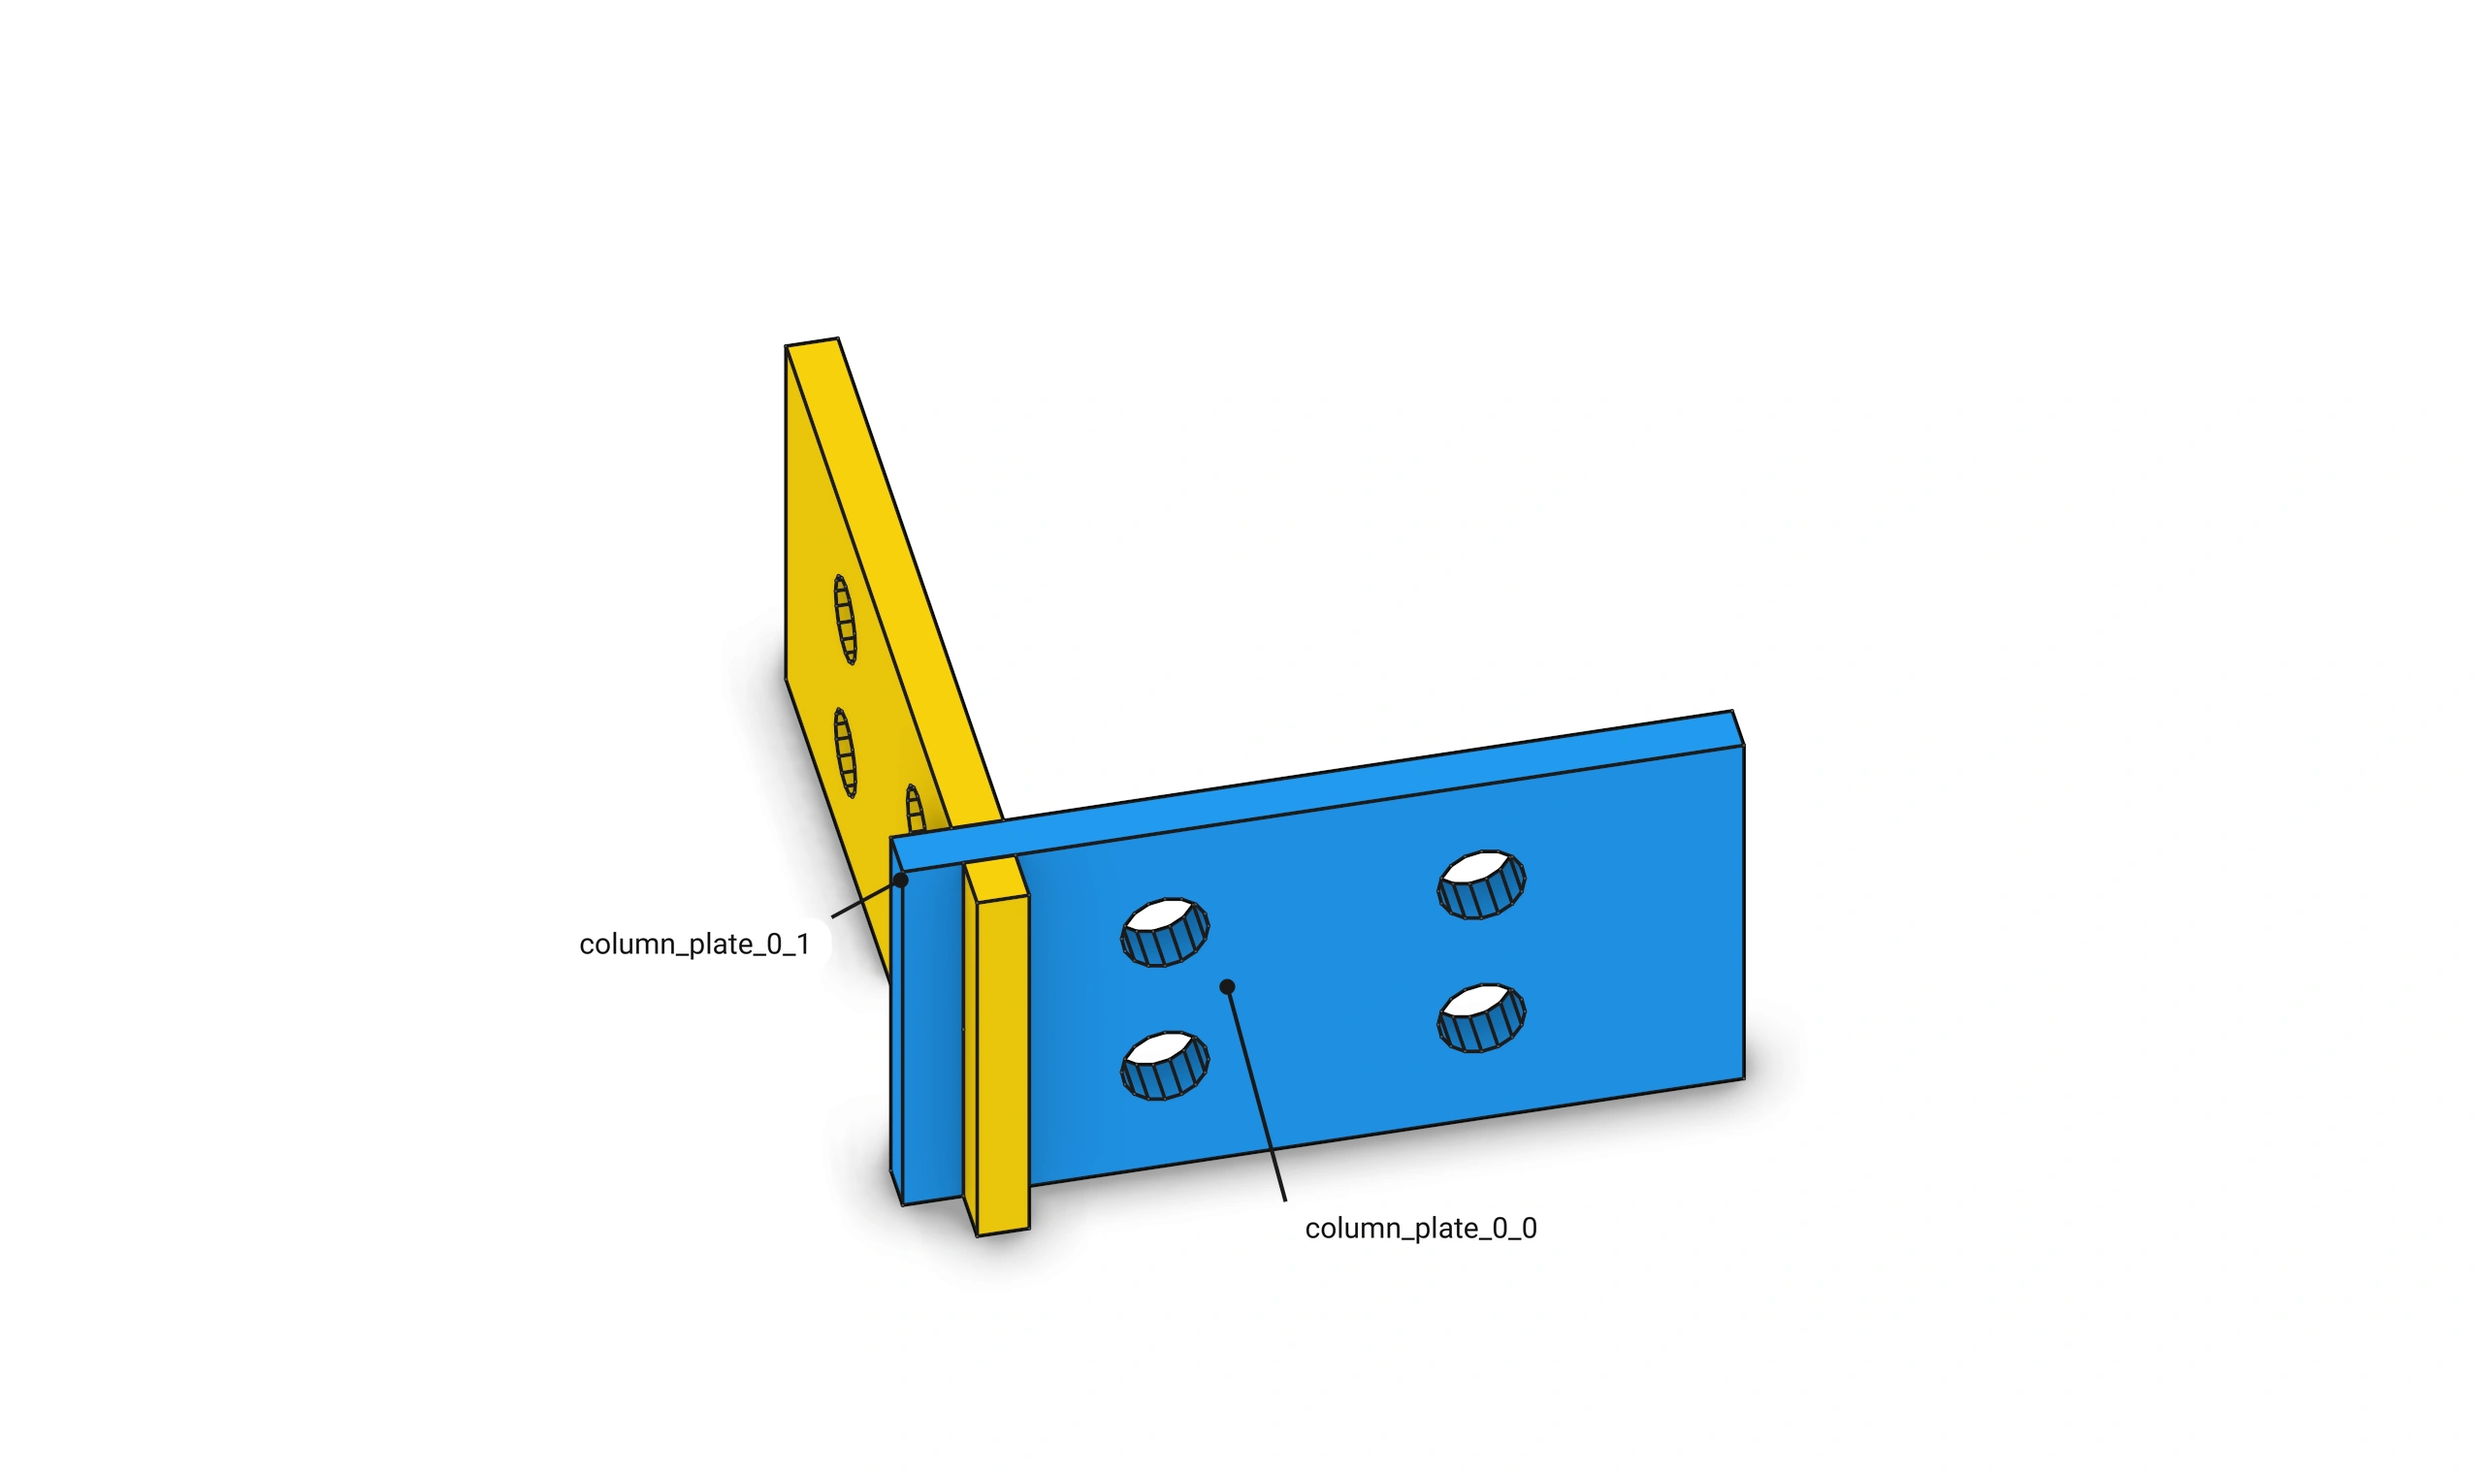
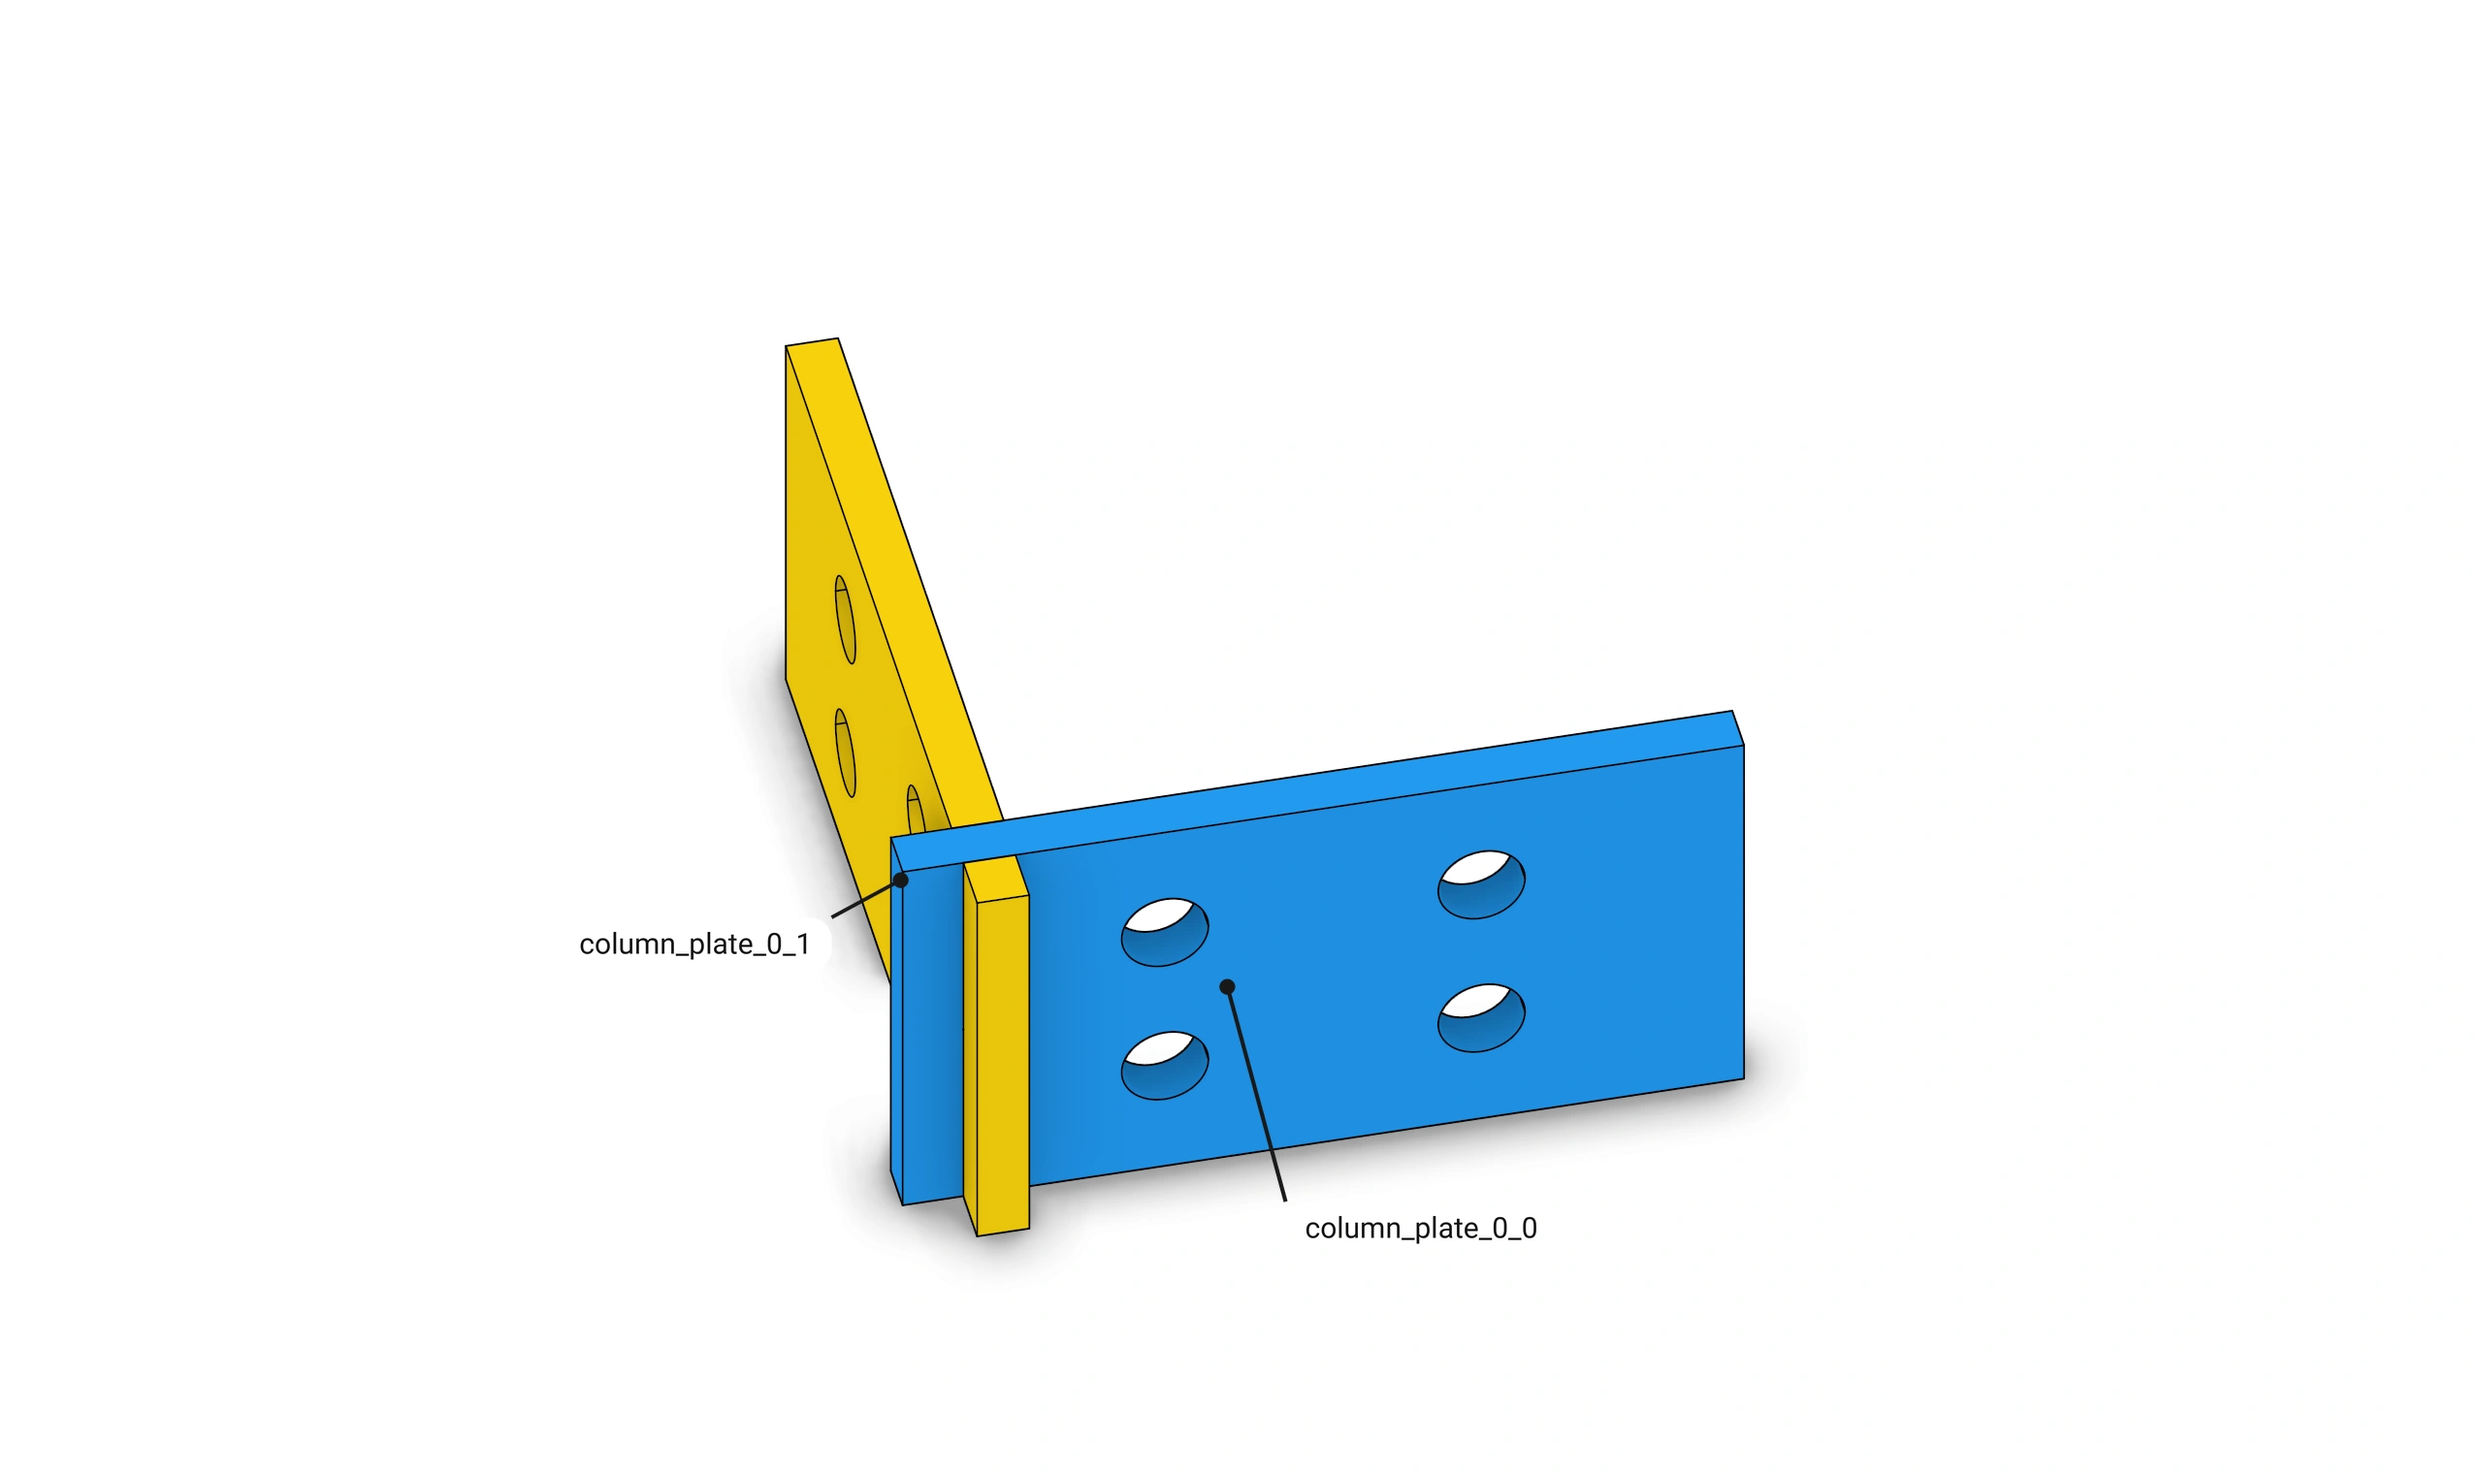
wood: column plate pins flush with their own member; plates drawn as BReps
rectangle_plate puts two pins in the column and two in the rib, each clipped
to its member and bored through it and the plate. The crossing plates picture
shows their BReps with exact bores.

diff --git a/src/joinery_solver/wood_elements/wood_element_joint_beam.cpp b/src/joinery_solver/wood_elements/wood_element_joint_beam.cpp
@@ -535,7 +535,7 @@ std::shared_ptr<Plate> JointBeam::let_in_plate(
     return plate;
 }
 
-/// The plate let into the column and the rib: its box raised by overshoot cut out of both, four pins across it margin_x and margin_z radii in from its ends and its top and bottom, pin_length long but flush with the members, bored through all three; aimed at the column, the rib, then the plate.
+/// The plate let into the column and the rib: its box raised by overshoot cut out of both, two pins in the column and two in the rib, margin_x and margin_z radii in from its ends and its top and bottom, pin_length long but flush with their member, each bored through its member and the plate; aimed at the column, the rib, then the plate.
 std::shared_ptr<JointBeam> JointBeam::rectangle_plate(
     const Element& column,
     const Element& rib,
@@ -579,7 +579,8 @@ std::shared_ptr<JointBeam> JointBeam::rectangle_plate(
 
     const double half = 0.5 * pin_length;
 
-    for (const double station : {low[0] + margin_x * pin_radius, high[0] - margin_x * pin_radius})
+    // two pins in the column, two in the rib, each flush with its own member only
+    for (const auto& [station, member] : std::array<std::pair<double, const Element*>, 2>{{{low[0] + margin_x * pin_radius, &column}, {high[0] - margin_x * pin_radius, &rib}}})
         for (const double level : {high[2] - margin_z * pin_radius, low[2] + margin_z * pin_radius})
             joint->drill_lines.push_back(
                 flush_pin(
@@ -599,7 +600,7 @@ std::shared_ptr<JointBeam> JointBeam::rectangle_plate(
                             level
                         )
                     ),
-                    {&column, &rib}
+                    {member}
                 )
             );
 
